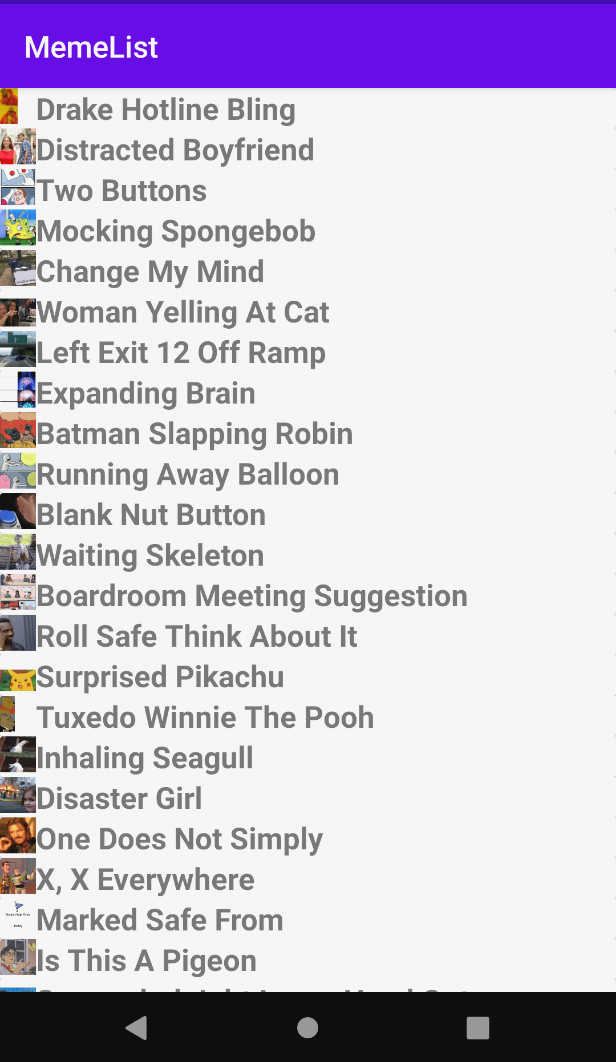
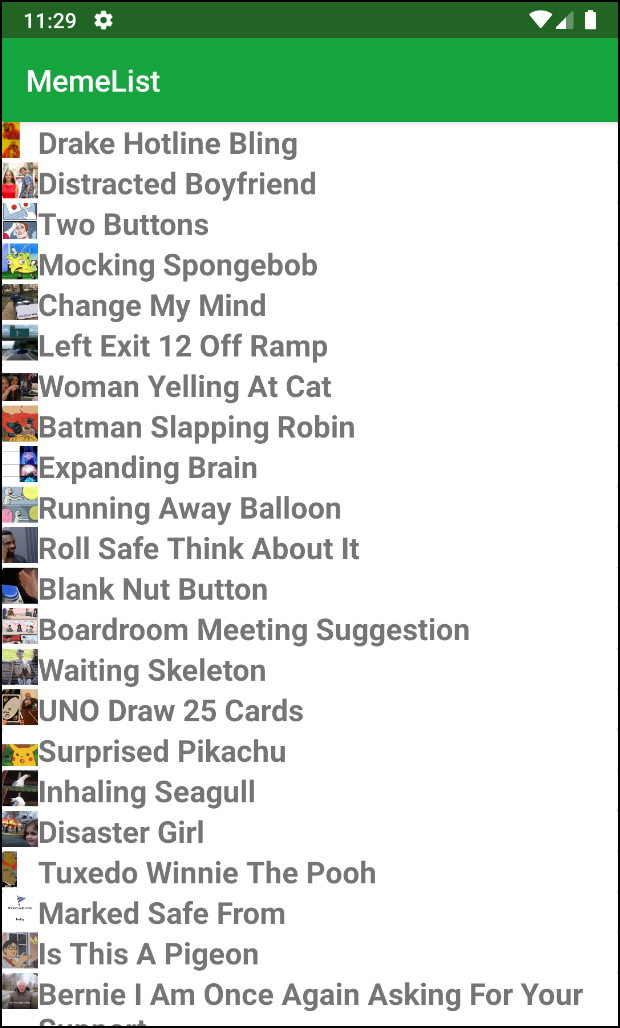
Added Splash screen, Updated README, Change colors

diff --git a/app/src/main/java/com/sorianog/memelist/view/SplashActivity.kt b/app/src/main/java/com/sorianog/memelist/view/SplashActivity.kt
@@ -1,0 +1,28 @@
+package com.sorianog.memelist.view
+
+import android.content.Intent
+import androidx.appcompat.app.AppCompatActivity
+import android.os.Bundle
+import android.os.Handler
+import com.sorianog.memelist.R
+
+class SplashActivity : AppCompatActivity() {
+
+    private val handler = Handler()
+    private val SPLASHTIMEOUT: Long = 3000
+
+    override fun onCreate(savedInstanceState: Bundle?) {
+        super.onCreate(savedInstanceState)
+        setContentView(R.layout.activity_splash)
+
+        handler.postDelayed({
+            startActivity(Intent(this, HomeActivity::class.java))
+            finish()
+        }, SPLASHTIMEOUT)
+    }
+
+    override fun onDestroy() {
+        handler.removeCallbacksAndMessages(null)
+        super.onDestroy()
+    }
+}

diff --git a/README.md b/README.md
@@ -1,7 +1,7 @@
 # MemeList
 
 A Kotlin-based Android app  
-
+<img src="screenshots/meme-list-splash.png" alt="Main Page" width="200"/>
 <img src="screenshots/meme-list-demo1.png" alt="Main Page" width="200"/>
 
 ## Key Components
